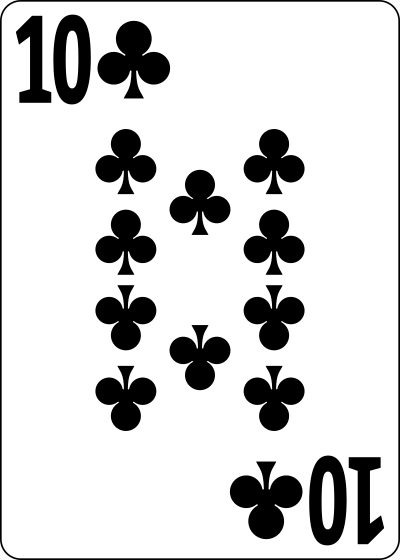
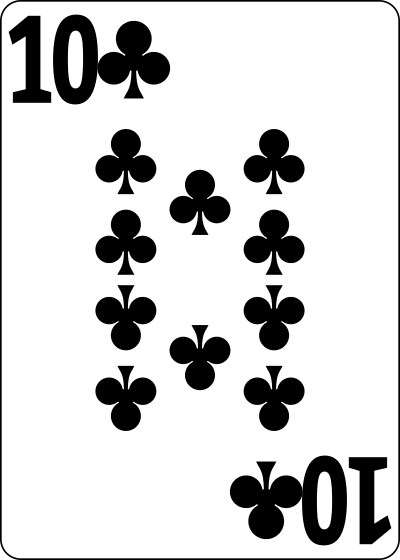
Cards: natural-proportion '10' (ten_w 940 -> 1120, gap 30) in both card sets; regenerated + golden

Changed region(s): [[0.75, 0.7893, 0.99, 0.9714], [0.15, 0.0304, 0.27, 0.1821], [0.03, 0.0304, 0.12, 0.1821]]

diff --git a/tests/card_golden.h b/tests/card_golden.h
@@ -106,89 +106,89 @@ static const CardGolden card_golden[] = {
         { 185, 2, 0xff585858u }, { 185, 3, 0xffffffffu }, { 186, 2, 0xcb000000u }, { 186, 3, 0xff707070u },
         { 186, 4, 0xffffffffu }, { 187, 3, 0xcb000000u }, { 187, 4, 0xff585858u }, { 187, 5, 0xffebebebu },
     } },
-    { "TC", 53, 72, { 697527L, 697527L, 697527L, 971516L }, {
-        { 3, 9, 0xff262626u }, { 4, 9, 0xff262626u }, { 5, 36, 0xffffffffu }, { 6, 2, 0xff0a0a0au },
-        { 6, 6, 0xff2c2c2cu }, { 7, 2, 0xff000000u }, { 8, 2, 0xff7c7c7cu }, { 8, 3, 0xff181818u },
-        { 8, 8, 0xff343434u }, { 8, 15, 0xff494949u }, { 9, 52, 0xffffffffu }, { 11, 30, 0xff2c2c2cu },
-        { 11, 41, 0xff2c2c2cu }, { 13, 38, 0xffffffffu }, { 14, 7, 0xffffffffu }, { 14, 8, 0xff878787u },
-        { 14, 16, 0xff383838u }, { 14, 55, 0xff373737u }, { 15, 7, 0xffcbcbcbu }, { 15, 8, 0xff000000u },
-        { 16, 7, 0xff686868u }, { 17, 7, 0xff909090u }, { 17, 8, 0xff000000u }, { 18, 7, 0xffffffffu },
-        { 18, 8, 0xff1f1f1fu }, { 19, 8, 0xffffffffu }, { 20, 16, 0xff3d3d3du }, { 20, 44, 0xffafafafu },
-        { 21, 7, 0xffffffffu }, { 21, 65, 0xffffffffu }, { 25, 26, 0xff494949u }, { 25, 45, 0xff494949u },
-        { 26, 26, 0xff303030u }, { 26, 45, 0xff303030u }, { 27, 26, 0xff494949u }, { 27, 45, 0xff494949u },
-        { 29, 30, 0xffffffffu }, { 30, 42, 0xffffffffu }, { 31, 47, 0xffffffffu }, { 32, 16, 0xff3d3d3du },
-        { 33, 8, 0xffffffffu }, { 34, 7, 0xffffffffu }, { 34, 8, 0xff1f1f1fu }, { 35, 6, 0xffffffffu },
-        { 35, 7, 0xff919191u }, { 35, 8, 0xff000000u }, { 36, 7, 0xff686868u }, { 37, 7, 0xffcacacau },
-        { 37, 8, 0xff000000u }, { 37, 16, 0xffdadadau }, { 37, 23, 0xff343434u }, { 38, 7, 0xffffffffu },
-        { 38, 8, 0xff878787u }, { 38, 16, 0xff383838u }, { 38, 55, 0xff373737u }, { 41, 30, 0xff2c2c2cu },
-        { 41, 31, 0xffd5d5d5u }, { 41, 41, 0xff2c2c2cu }, { 42, 53, 0xffffffffu }, { 44, 35, 0xffffffffu },
-        { 44, 63, 0xff343434u }, { 48, 43, 0xffffffffu }, { 48, 62, 0xff262626u }, { 49, 62, 0xff262626u },
+    { "TC", 53, 72, { 694953L, 694953L, 694953L, 971516L }, {
+        { 2, 2, 0xff5c5c5cu }, { 2, 4, 0xffddddddu }, { 2, 7, 0xffffffffu }, { 3, 2, 0xff000000u },
+        { 3, 4, 0xff010101u }, { 3, 7, 0xff010101u }, { 4, 2, 0xff8f8f8fu }, { 4, 3, 0xff919191u },
+        { 5, 2, 0xffffffffu }, { 5, 3, 0xffacacacu }, { 5, 36, 0xffffffffu }, { 6, 2, 0xff1c1c1cu },
+        { 6, 3, 0xff000000u }, { 6, 4, 0xff060606u }, { 6, 6, 0xff0b0b0bu }, { 6, 7, 0xff030303u },
+        { 7, 2, 0xff000000u }, { 7, 3, 0xff7b7b7bu }, { 7, 4, 0xffffffffu }, { 7, 7, 0xffffffffu },
+        { 8, 2, 0xff040404u }, { 8, 3, 0xff020202u }, { 8, 7, 0xff0b0b0bu }, { 8, 15, 0xff494949u },
+        { 9, 4, 0xff434343u }, { 9, 6, 0xff3c3c3cu }, { 9, 7, 0xff5e5e5eu }, { 9, 52, 0xffffffffu },
+        { 11, 30, 0xff2c2c2cu }, { 11, 41, 0xff2c2c2cu }, { 13, 38, 0xffffffffu }, { 14, 7, 0xffffffffu },
+        { 14, 16, 0xff383838u }, { 14, 55, 0xff373737u }, { 15, 7, 0xffcbcbcbu }, { 20, 16, 0xff3d3d3du },
+        { 20, 44, 0xffafafafu }, { 20, 55, 0xff3d3d3du }, { 21, 7, 0xffffffffu }, { 21, 65, 0xffffffffu },
+        { 25, 26, 0xff494949u }, { 25, 45, 0xff494949u }, { 26, 26, 0xff303030u }, { 26, 45, 0xff303030u },
+        { 27, 26, 0xff494949u }, { 27, 45, 0xff494949u }, { 29, 30, 0xffffffffu }, { 30, 42, 0xffffffffu },
+        { 31, 47, 0xffffffffu }, { 32, 16, 0xff3d3d3du }, { 32, 55, 0xff3d3d3du }, { 35, 6, 0xffffffffu },
+        { 37, 16, 0xffdadadau }, { 37, 23, 0xff343434u }, { 38, 16, 0xff383838u }, { 38, 55, 0xff373737u },
+        { 41, 30, 0xff2c2c2cu }, { 41, 31, 0xffd5d5d5u }, { 41, 41, 0xff2c2c2cu }, { 42, 53, 0xffffffffu },
+        { 43, 65, 0xff3c3c3cu }, { 43, 67, 0xff434343u }, { 44, 35, 0xffffffffu }, { 48, 43, 0xffffffffu },
     } },
-    { "TC", 71, 96, { 1282989L, 1282989L, 1282989L, 1735340L }, {
-        { 3, 2, 0xffffffffu }, { 3, 3, 0xffc0c0c0u }, { 3, 4, 0xff010101u }, { 3, 5, 0xff2a2a2au },
-        { 4, 2, 0xffcdcdcdu }, { 4, 3, 0xff000000u }, { 4, 5, 0xff4b4b4bu }, { 4, 6, 0xff666666u },
-        { 4, 7, 0xff666666u }, { 4, 8, 0xff666666u }, { 4, 9, 0xff666666u }, { 5, 2, 0xff787878u },
-        { 5, 3, 0xff000000u }, { 5, 17, 0xff3a3a3au }, { 5, 64, 0xffffffffu }, { 6, 2, 0xffffffffu },
-        { 6, 3, 0xfffafafau }, { 7, 3, 0xfffdfdfdu }, { 7, 6, 0xff454545u }, { 7, 7, 0xff3b3b3bu },
-        { 7, 8, 0xff3c3c3cu }, { 8, 2, 0xffe5e5e5u }, { 8, 3, 0xff070707u }, { 9, 2, 0xff575757u },
-        { 10, 2, 0xff828282u }, { 10, 3, 0xff000000u }, { 10, 6, 0xff434343u }, { 10, 7, 0xff464646u },
-        { 10, 8, 0xff434343u }, { 10, 46, 0xffffffffu }, { 11, 2, 0xffffffffu }, { 11, 3, 0xff8c8c8cu },
-        { 11, 4, 0xff1e1e1eu }, { 17, 15, 0xffffffffu }, { 17, 22, 0xffc4c4c4u }, { 19, 89, 0xffffffffu },
-        { 28, 30, 0xff353535u }, { 28, 65, 0xff353535u }, { 30, 32, 0xff2a2a2au }, { 30, 63, 0xff2a2a2au },
-        { 31, 16, 0xffffffffu }, { 32, 6, 0xffffffffu }, { 32, 32, 0xff282828u }, { 34, 35, 0xff515151u },
-        { 34, 60, 0xff515151u }, { 36, 35, 0xff515151u }, { 36, 60, 0xff515151u }, { 38, 32, 0xff282828u },
-        { 39, 30, 0xff000000u }, { 40, 63, 0xff2a2a2au }, { 42, 30, 0xff353535u }, { 42, 46, 0xffffffffu },
-        { 42, 65, 0xff353535u }, { 45, 84, 0xffb7b7b7u }, { 53, 38, 0xff000000u }, { 56, 53, 0xffffffffu },
-        { 57, 80, 0xffffffffu }, { 59, 89, 0xff040404u }, { 60, 87, 0xff434343u }, { 60, 88, 0xff464646u },
-        { 63, 87, 0xff3c3c3cu }, { 64, 28, 0xffffffffu }, { 65, 16, 0xffffffffu }, { 65, 78, 0xff3b3b3bu },
+    { "TC", 71, 96, { 1277472L, 1277472L, 1277472L, 1735340L }, {
+        { 2, 3, 0xfffbfbfbu }, { 2, 4, 0xff0a0a0au }, { 2, 5, 0xff313131u }, { 3, 2, 0xffffffffu },
+        { 3, 3, 0xff181818u }, { 3, 5, 0xff8a8a8au }, { 4, 2, 0xff868686u }, { 4, 3, 0xff000000u },
+        { 5, 2, 0xff8d8d8du }, { 5, 3, 0xff101010u }, { 5, 4, 0xff101010u }, { 5, 17, 0xff3a3a3au },
+        { 5, 64, 0xffffffffu }, { 7, 3, 0xffffffffu }, { 7, 4, 0xffbebebeu }, { 7, 6, 0xff3e3e3eu },
+        { 8, 2, 0xffffffffu }, { 8, 3, 0xff171717u }, { 8, 4, 0xff000000u }, { 9, 2, 0xff666666u },
+        { 9, 3, 0xff000000u }, { 10, 2, 0xff545454u }, { 10, 46, 0xffffffffu }, { 11, 2, 0xffcbcbcbu },
+        { 11, 3, 0xff000000u }, { 12, 2, 0xffffffffu }, { 12, 3, 0xffdcdcdcu }, { 12, 4, 0xff4a4a4au },
+        { 17, 15, 0xffffffffu }, { 17, 22, 0xffc4c4c4u }, { 19, 89, 0xffffffffu }, { 23, 44, 0xff252525u },
+        { 23, 51, 0xff252525u }, { 28, 30, 0xff353535u }, { 28, 65, 0xff353535u }, { 30, 32, 0xff2a2a2au },
+        { 30, 63, 0xff2a2a2au }, { 31, 16, 0xffffffffu }, { 32, 6, 0xffffffffu }, { 32, 32, 0xff282828u },
+        { 32, 63, 0xff282828u }, { 34, 35, 0xff515151u }, { 34, 60, 0xff515151u }, { 35, 35, 0xff525252u },
+        { 35, 60, 0xff525252u }, { 36, 35, 0xff515151u }, { 36, 60, 0xff515151u }, { 38, 32, 0xff282828u },
+        { 39, 30, 0xff000000u }, { 40, 32, 0xff2b2b2bu }, { 40, 63, 0xff2a2a2au }, { 42, 30, 0xff353535u },
+        { 42, 46, 0xffffffffu }, { 42, 65, 0xff353535u }, { 45, 84, 0xffb7b7b7u }, { 47, 44, 0xff252525u },
+        { 47, 51, 0xff252525u }, { 53, 38, 0xff000000u }, { 56, 53, 0xffffffffu }, { 57, 80, 0xffffffffu },
+        { 59, 89, 0xff010101u }, { 64, 28, 0xffffffffu }, { 65, 16, 0xffffffffu }, { 65, 78, 0xff3b3b3bu },
     } },
-    { "TC", 95, 128, { 2333874L, 2333874L, 2333874L, 3095844L }, {
-        { 2, 2, 0xfffbfbfbu }, { 3, 5, 0xffffffffu }, { 3, 6, 0xffe5e5e5u }, { 4, 4, 0xffffffffu },
-        { 4, 5, 0xff222222u }, { 5, 3, 0xffffffffu }, { 5, 4, 0xff2c2c2cu }, { 5, 5, 0xff000000u },
-        { 6, 3, 0xff646464u }, { 6, 4, 0xff000000u }, { 6, 71, 0xffffffffu }, { 7, 3, 0xff4f4f4fu },
-        { 8, 3, 0xfff6f6f6u }, { 8, 4, 0xffedededu }, { 8, 5, 0xffedededu }, { 10, 4, 0xfff2f2f2u },
-        { 10, 5, 0xff5b5b5bu }, { 10, 21, 0xff4b4b4bu }, { 11, 3, 0xffcacacau }, { 11, 4, 0xff010101u },
-        { 11, 59, 0xffffffffu }, { 12, 3, 0xff2c2c2cu }, { 12, 23, 0xff383838u }, { 12, 81, 0xffffffffu },
-        { 13, 3, 0xff2b2b2bu }, { 14, 3, 0xffb3b3b3u }, { 14, 4, 0xff000000u }, { 15, 3, 0xffffffffu },
-        { 15, 4, 0xffe0e0e0u }, { 15, 5, 0xff4d4d4du }, { 20, 24, 0xff323232u }, { 23, 121, 0xffffffffu },
-        { 25, 29, 0xff2d2d2du }, { 26, 33, 0xffffffffu }, { 26, 47, 0xff000000u }, { 30, 13, 0xff464646u },
-        { 30, 114, 0xff464646u }, { 32, 93, 0xffffffffu }, { 37, 105, 0xff010101u }, { 41, 35, 0xff434343u },
-        { 41, 92, 0xff444444u }, { 42, 92, 0xff3a3a3au }, { 47, 27, 0xff3b3b3bu }, { 47, 36, 0xff000000u },
+    { "TC", 95, 128, { 2322514L, 2322514L, 2322514L, 3095844L }, {
+        { 2, 2, 0xfffbfbfbu }, { 2, 5, 0xfff2f2f2u }, { 3, 4, 0xffffffffu }, { 3, 5, 0xff1e1e1eu },
+        { 4, 3, 0xffffffffu }, { 4, 4, 0xff515151u }, { 4, 5, 0xff000000u }, { 5, 3, 0xff969696u },
+        { 5, 4, 0xff000000u }, { 6, 3, 0xff4f4f4fu }, { 6, 71, 0xffffffffu }, { 7, 3, 0xff717171u },
+        { 7, 4, 0xff181818u }, { 7, 5, 0xff181818u }, { 10, 4, 0xffffffffu }, { 10, 5, 0xff757575u },
+        { 10, 21, 0xff4b4b4bu }, { 11, 3, 0xfff7f7f7u }, { 11, 4, 0xff0c0c0cu }, { 11, 59, 0xffffffffu },
+        { 12, 3, 0xff4d4d4du }, { 12, 23, 0xff383838u }, { 12, 81, 0xffffffffu }, { 13, 3, 0xff242424u },
+        { 14, 3, 0xff343434u }, { 15, 3, 0xffcdcdcdu }, { 15, 4, 0xff000000u }, { 16, 3, 0xffffffffu },
+        { 16, 4, 0xffdcdcdcu }, { 20, 24, 0xff323232u }, { 23, 121, 0xffffffffu }, { 25, 29, 0xff2d2d2du },
+        { 26, 33, 0xffffffffu }, { 26, 47, 0xff000000u }, { 30, 13, 0xff464646u }, { 30, 114, 0xff464646u },
+        { 32, 93, 0xffffffffu }, { 37, 105, 0xff010101u }, { 41, 35, 0xff434343u }, { 41, 92, 0xff444444u },
+        { 42, 35, 0xff3a3a3au }, { 42, 92, 0xff3a3a3au }, { 47, 27, 0xff3b3b3bu }, { 47, 36, 0xff000000u },
         { 47, 100, 0xff3b3b3bu }, { 49, 77, 0xffffffffu }, { 52, 35, 0xff393939u }, { 52, 92, 0xff3a3a3au },
         { 53, 35, 0xff434343u }, { 53, 92, 0xff444444u }, { 58, 111, 0xffffffffu }, { 59, 56, 0xff000000u },
         { 64, 13, 0xff454545u }, { 64, 114, 0xff464646u }, { 66, 67, 0xff020202u }, { 69, 29, 0xff2d2d2du },
-        { 71, 29, 0xff353535u }, { 74, 24, 0xff323232u }, { 77, 25, 0xffffffffu }, { 81, 64, 0xffffffffu },
-        { 82, 104, 0xff383838u }, { 82, 124, 0xff2d2d2du }, { 89, 69, 0xffffffffu }, { 92, 2, 0xfffbfbfbu },
+        { 71, 29, 0xff353535u }, { 74, 24, 0xff323232u }, { 77, 25, 0xffffffffu }, { 80, 124, 0xff353535u },
+        { 81, 64, 0xffffffffu }, { 82, 104, 0xff383838u }, { 89, 69, 0xffffffffu }, { 92, 2, 0xfffbfbfbu },
     } },
-    { "TC", 118, 160, { 3674804L, 3674804L, 3674804L, 4806688L }, {
-        { 2, 2, 0xff8f8f8fu }, { 2, 3, 0xffffffffu }, { 3, 2, 0xffffffffu }, { 5, 5, 0xffffffffu },
-        { 6, 4, 0xffffffffu }, { 6, 5, 0xffa9a9a9u }, { 6, 60, 0xffffffffu }, { 7, 4, 0xffafafafu },
-        { 7, 5, 0xff000000u }, { 8, 4, 0xff383838u }, { 9, 4, 0xff383838u }, { 10, 4, 0xfffdfdfdu },
-        { 10, 5, 0xfffcfcfcu }, { 11, 19, 0xff383838u }, { 11, 91, 0xffffffffu }, { 12, 11, 0xff383838u },
-        { 12, 14, 0xff373737u }, { 13, 4, 0xffffffffu }, { 13, 5, 0xffa6a6a6u }, { 14, 4, 0xff949494u },
-        { 14, 5, 0xff000000u }, { 15, 4, 0xff151515u }, { 15, 21, 0xff2a2a2au }, { 15, 29, 0xff313131u },
-        { 15, 38, 0xff464646u }, { 16, 4, 0xff0d0d0du }, { 16, 145, 0xffffffffu }, { 17, 4, 0xff414141u },
-        { 17, 11, 0xff3f3f3fu }, { 17, 12, 0xff424242u }, { 17, 13, 0xff3f3f3fu }, { 18, 4, 0xfff7f7f7u },
-        { 18, 5, 0xff333333u }, { 36, 51, 0xff3f3f3fu }, { 36, 108, 0xff404040u }, { 37, 87, 0xff000000u },
-        { 39, 36, 0xffffffffu }, { 44, 61, 0xff3e3e3eu }, { 44, 98, 0xff3f3f3fu }, { 45, 146, 0xffffffffu },
-        { 51, 54, 0xff3f3f3fu }, { 51, 105, 0xff3f3f3fu }, { 51, 126, 0xffffffffu }, { 60, 110, 0xff000000u },
-        { 61, 66, 0xffffffffu }, { 64, 61, 0xffffffffu }, { 66, 54, 0xff3f3f3fu }, { 73, 61, 0xff3e3e3eu },
-        { 73, 98, 0xff3f3f3fu }, { 75, 119, 0xffffffffu }, { 81, 51, 0xff404040u }, { 81, 108, 0xff404040u },
-        { 83, 40, 0xff474747u }, { 95, 82, 0xffffffffu }, { 96, 107, 0xffffffffu }, { 100, 146, 0xff404040u },
-        { 100, 147, 0xff424242u }, { 100, 148, 0xff404040u }, { 104, 14, 0xffffffffu }, { 110, 79, 0xffffffffu },
+    { "TC", 118, 160, { 3658778L, 3658778L, 3658778L, 4806688L }, {
+        { 2, 2, 0xff8f8f8fu }, { 2, 3, 0xffffffffu }, { 3, 2, 0xffffffffu }, { 3, 6, 0xffffffffu },
+        { 4, 5, 0xffffffffu }, { 4, 6, 0xff5c5c5cu }, { 5, 5, 0xff979797u }, { 5, 6, 0xff000000u },
+        { 6, 4, 0xffc7c7c7u }, { 6, 5, 0xff010101u }, { 6, 60, 0xffffffffu }, { 7, 4, 0xff383838u },
+        { 8, 4, 0xff383838u }, { 9, 4, 0xff757575u }, { 9, 5, 0xff3c3c3cu }, { 11, 91, 0xffffffffu },
+        { 12, 10, 0xff3d3d3du }, { 12, 15, 0xff3a3a3au }, { 13, 5, 0xffdbdbdbu }, { 14, 4, 0xffd6d6d6u },
+        { 14, 5, 0xff040404u }, { 15, 4, 0xff373737u }, { 15, 29, 0xff313131u }, { 15, 38, 0xff464646u },
+        { 16, 4, 0xff0d0d0du }, { 16, 145, 0xffffffffu }, { 17, 4, 0xff0e0e0eu }, { 18, 4, 0xff444444u },
+        { 19, 4, 0xffe7e7e7u }, { 19, 5, 0xff0f0f0fu }, { 20, 5, 0xfffbfbfbu }, { 36, 51, 0xff3f3f3fu },
+        { 36, 108, 0xff404040u }, { 37, 87, 0xff000000u }, { 39, 36, 0xffffffffu }, { 44, 61, 0xff3e3e3eu },
+        { 44, 98, 0xff3f3f3fu }, { 45, 146, 0xffffffffu }, { 51, 54, 0xff3f3f3fu }, { 51, 105, 0xff3f3f3fu },
+        { 51, 126, 0xffffffffu }, { 60, 110, 0xff000000u }, { 61, 66, 0xffffffffu }, { 64, 61, 0xffffffffu },
+        { 66, 54, 0xff3f3f3fu }, { 66, 105, 0xff3f3f3fu }, { 73, 61, 0xff3e3e3eu }, { 73, 98, 0xff3f3f3fu },
+        { 75, 119, 0xffffffffu }, { 81, 51, 0xff404040u }, { 81, 108, 0xff404040u }, { 83, 40, 0xff474747u },
+        { 95, 82, 0xffffffffu }, { 96, 107, 0xffffffffu }, { 102, 121, 0xff454545u }, { 102, 130, 0xff313131u },
+        { 104, 14, 0xffffffffu }, { 105, 144, 0xff3b3b3bu }, { 105, 149, 0xff3e3e3eu }, { 110, 79, 0xffffffffu },
         { 113, 16, 0xffffffffu }, { 114, 2, 0xffffffffu }, { 115, 2, 0xff8f8f8fu }, { 115, 3, 0xffffffffu },
     } },
-    { "TC", 190, 257, { 9697051L, 9697051L, 9697051L, 12431662L }, {
+    { "TC", 190, 257, { 9657883L, 9657883L, 9657883L, 12431662L }, {
         { 2, 2, 0x18000000u }, { 2, 3, 0xcb000000u }, { 2, 4, 0xff585858u }, { 2, 5, 0xffebebebu },
         { 3, 2, 0xcb000000u }, { 3, 3, 0xff707070u }, { 3, 4, 0xffffffffu }, { 4, 2, 0xff585858u },
         { 4, 3, 0xffffffffu }, { 5, 2, 0xffebebebu }, { 6, 2, 0xffffffffu }, { 7, 2, 0xffffffffu },
-        { 8, 2, 0xffffffffu }, { 9, 2, 0xffffffffu }, { 10, 2, 0xffffffffu }, { 11, 2, 0xffffffffu },
-        { 11, 7, 0xffe8e8e8u }, { 12, 2, 0xffffffffu }, { 12, 7, 0xff515151u }, { 13, 2, 0xffffffffu },
-        { 14, 2, 0xffffffffu }, { 15, 2, 0xffffffffu }, { 16, 2, 0xffffffffu }, { 16, 7, 0xffd4d4d4u },
-        { 17, 2, 0xffffffffu }, { 18, 2, 0xffffffffu }, { 19, 2, 0xffffffffu }, { 20, 2, 0xffffffffu },
-        { 20, 203, 0xffffffffu }, { 21, 2, 0xffffffffu }, { 22, 2, 0xffffffffu }, { 22, 7, 0xffe6e6e6u },
-        { 23, 2, 0xffffffffu }, { 24, 2, 0xffffffffu }, { 24, 6, 0xffcfcfcfu }, { 25, 2, 0xffffffffu },
-        { 25, 6, 0xff9c9c9cu }, { 26, 6, 0xff989898u }, { 27, 6, 0xffc1c1c1u }, { 28, 6, 0xfff3f3f3u },
+        { 8, 2, 0xffffffffu }, { 9, 2, 0xffffffffu }, { 10, 2, 0xffffffffu }, { 10, 7, 0xffb3b3b3u },
+        { 11, 2, 0xffffffffu }, { 12, 2, 0xffffffffu }, { 13, 2, 0xffffffffu }, { 14, 2, 0xffffffffu },
+        { 15, 2, 0xffffffffu }, { 15, 7, 0xff777777u }, { 16, 2, 0xffffffffu }, { 17, 2, 0xffffffffu },
+        { 18, 2, 0xffffffffu }, { 19, 2, 0xffffffffu }, { 20, 2, 0xffffffffu }, { 20, 203, 0xffffffffu },
+        { 21, 2, 0xffffffffu }, { 22, 2, 0xffffffffu }, { 23, 2, 0xffffffffu }, { 23, 7, 0xffb1b1b1u },
+        { 24, 2, 0xffffffffu }, { 24, 7, 0xff333333u }, { 25, 2, 0xffffffffu }, { 25, 6, 0xffc7c7c7u },
+        { 26, 6, 0xff9c9c9cu }, { 27, 6, 0xff949494u }, { 28, 6, 0xffabababu }, { 29, 6, 0xffdfdfdfu },
         { 35, 175, 0xffffffffu }, { 43, 12, 0xffffffffu }, { 46, 46, 0xff000000u }, { 47, 216, 0xffffffffu },
         { 49, 194, 0xffffffffu }, { 50, 36, 0xff4b4b4bu }, { 54, 217, 0xff000000u }, { 72, 163, 0xffffffffu },
         { 101, 31, 0xffffffffu }, { 117, 230, 0xffffffffu }, { 125, 162, 0xff000000u }, { 128, 13, 0xffffffffu },
